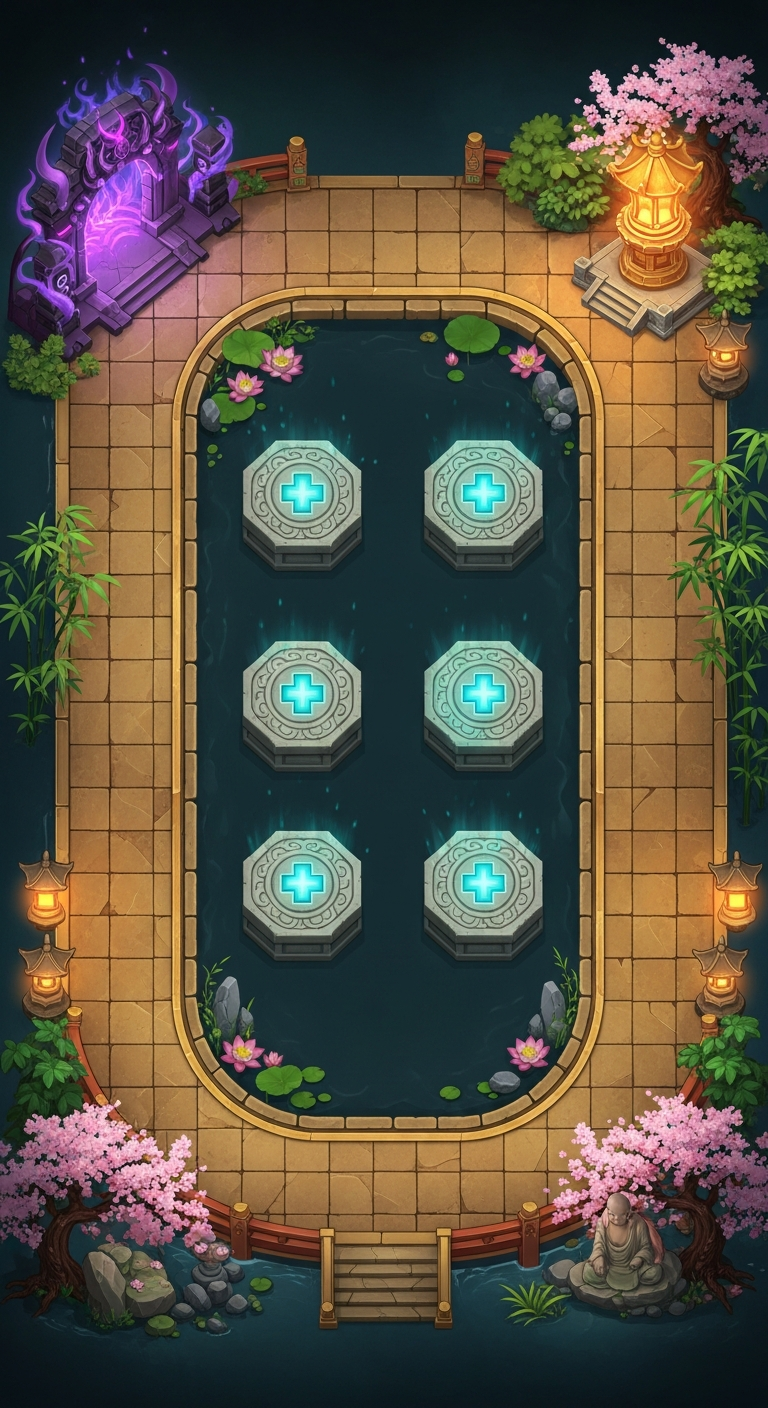
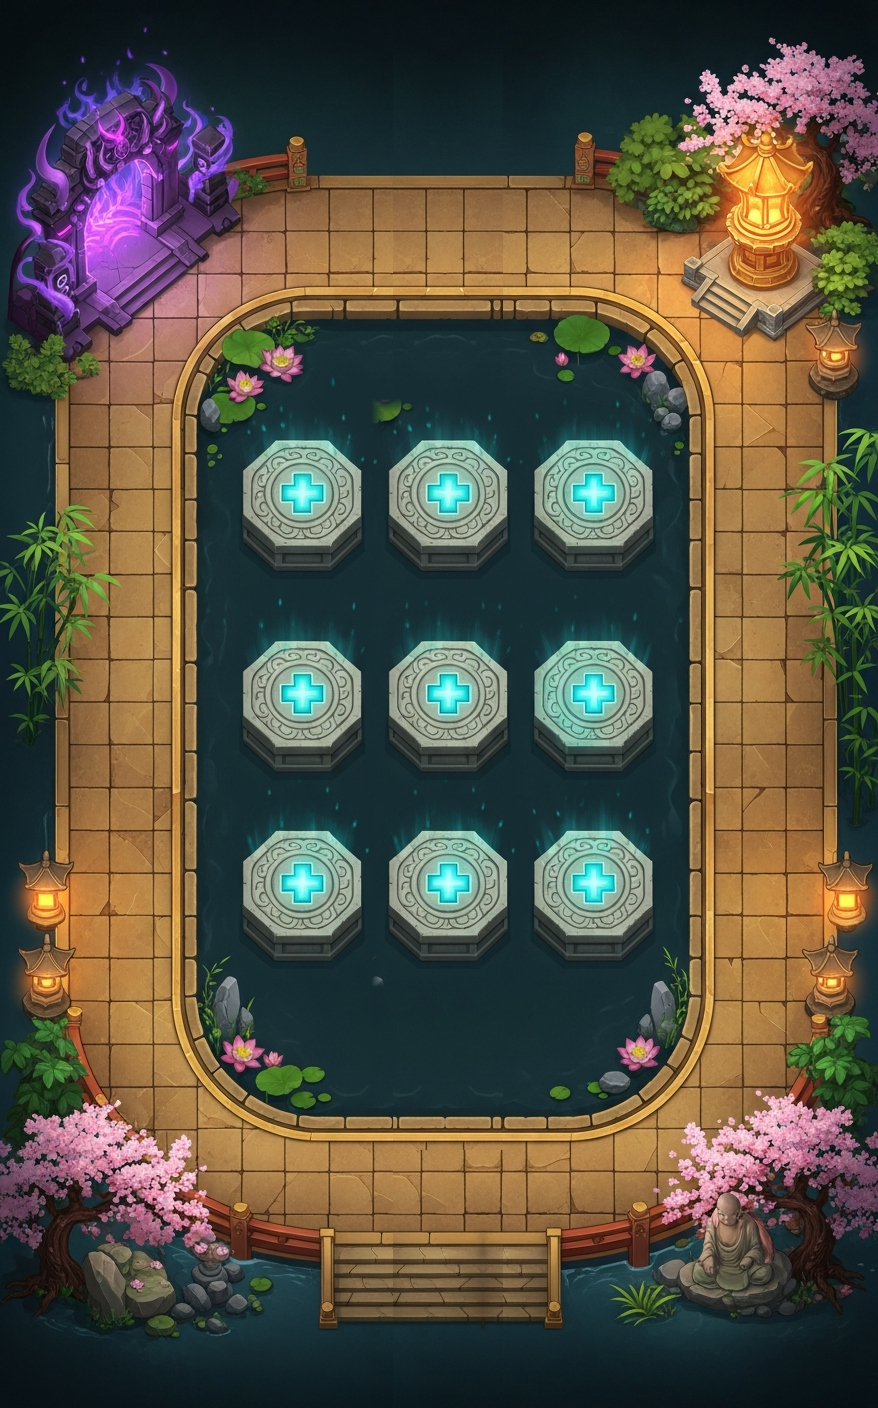
Expand the game board to accommodate three columns of pedestals
Update game map assets and configuration files to support a 3x3 grid of pedestals, expanding the playable area.

Replit-Commit-Author: Agent
Replit-Commit-Session-Id: 888092a9-07bb-434c-a266-2e5eb90ffa4c
Replit-Commit-Checkpoint-Type: full_checkpoint
Replit-Commit-Event-Id: bd8d1aba-7114-4f77-8098-6533ab500651
Replit-Commit-Screenshot-Url: https://storage.googleapis.com/screenshot-production-us-central1/1a88ce60-54d7-432b-a038-dd5cf757c637/888092a9-07bb-434c-a266-2e5eb90ffa4c/tU69pJJ
Replit-Helium-Checkpoint-Created: true

diff --git a/frontend/app/ward-defense-v2.tsx b/frontend/app/ward-defense-v2.tsx
@@ -2,13 +2,13 @@
  * Ward Defense V2 — Lotus Healing Sanctum
  *
  * INTERACTIVE MAP — the illustrated reference asset IS the battlefield.
- * Background: assets/ward-defense/lotus-healing-ward-map-portrait.png (square
- * 1:1, 1024×1024 — Disease Gate top-left, Vital Lantern top-right, nine glowing
- * pedestals in a 3×3 grid, perimeter stone walkway loop).  The board is sized
+ * Background: assets/ward-defense/lotus-healing-ward-map-portrait.png (portrait
+ * 878×1408 — Disease Gate top-left, Vital Lantern top-right, nine cross
+ * pedestals in a 3×3 grid, oval stone walkway loop).  The board is sized
  * to the image ratio exactly; overlay coordinates are fractions of that size.
  *
  * Layer order (zIndex):
- *   0  <ExpoImage IMG_MAP>  — square battle map (fills the fitted board)
+ *   0  <ExpoImage IMG_MAP>  — portrait battle map (fills the fitted board)
  *   6  StonePad × 9         — fully invisible tap targets (gold star on merge only)
  *  22  GateBadge            — spawn-queue count over the drawn gate
  *  10  HeroOnPad            — deployed hero sprites (centered on platforms)
@@ -28,30 +28,30 @@ import { Image as ExpoImage } from "expo-image";
    image ratio exactly so coordinates stay valid regardless of screen size.
    MUST stay identical to ward-defense.tsx.                              */
 export const PATH_WPS: [number, number][] = [
-  [0.14, 0.13],  /*  0  Disease Gate spawn        */
-  [0.14, 0.26],  /*  1  left lane upper           */
-  [0.13, 0.40],  /*  2  left lane                 */
-  [0.13, 0.54],  /*  3  left lane                 */
-  [0.15, 0.68],  /*  4  left lane lower           */
-  [0.20, 0.78],  /*  5  bottom-left curve         */
-  [0.34, 0.83],  /*  6  bottom lane left          */
-  [0.50, 0.84],  /*  7  bottom lane center        */
-  [0.66, 0.83],  /*  8  bottom lane right         */
-  [0.80, 0.78],  /*  9  bottom-right curve        */
-  [0.86, 0.68],  /* 10  right lane lower          */
-  [0.87, 0.54],  /* 11  right lane                */
-  [0.87, 0.40],  /* 12  right lane                */
-  [0.85, 0.26],  /* 13  right lane upper          */
-  [0.80, 0.13],  /* 14  Vital Lantern exit        */
+  [0.122, 0.13], /*  0  Disease Gate spawn        */
+  [0.122, 0.26], /*  1  left lane upper           */
+  [0.114, 0.40], /*  2  left lane                 */
+  [0.114, 0.54], /*  3  left lane                 */
+  [0.131, 0.68], /*  4  left lane lower           */
+  [0.175, 0.78], /*  5  bottom-left curve         */
+  [0.297, 0.83], /*  6  bottom lane left          */
+  [0.510, 0.84], /*  7  bottom lane center        */
+  [0.703, 0.83], /*  8  bottom lane right         */
+  [0.825, 0.78], /*  9  bottom-right curve        */
+  [0.877, 0.68], /* 10  right lane lower          */
+  [0.886, 0.54], /* 11  right lane                */
+  [0.886, 0.40], /* 12  right lane                */
+  [0.869, 0.26], /* 13  right lane upper          */
+  [0.825, 0.13], /* 14  Vital Lantern exit        */
 ];
 
-/* Six deploy pads — aligned onto the six cross pedestals drawn in the
-   portrait map (2 cols × 3 rows, centered inside the U-shaped walkway loop).
+/* Nine deploy pads — aligned onto the nine cross pedestals drawn in the
+   widened portrait map (3 cols × 3 rows, inside the walkway loop).
    MUST stay identical to ward-defense.tsx.                              */
 export const DEPLOY_TILES: [number, number][] = [
-  [0.394, 0.350], [0.629, 0.350],
-  [0.394, 0.493], [0.629, 0.493],
-  [0.394, 0.626], [0.629, 0.626],
+  [0.345, 0.350], [0.510, 0.350], [0.675, 0.350],
+  [0.345, 0.493], [0.510, 0.493], [0.675, 0.493],
+  [0.345, 0.626], [0.510, 0.626], [0.675, 0.626],
 ];
 
 /* ─── Assets ────────────────────────────────────────────────────────────── */
@@ -344,15 +344,15 @@ export function WardBoardV2({
   bobY,
   spawnQueueLen, mergeTileSet, onTilePress, unitColors,
 }: WardBoardV2Props) {
-  /* Measure the AVAILABLE area (outer container) and fit the whole 768×1408
+  /* Measure the AVAILABLE area (outer container) and fit the whole 878×1408
      portrait map inside it, preserving aspect. This guarantees the entry
      (Disease Gate) and exit (Vital Lantern) at the top of the map are NEVER
      cropped, while keeping overlays perfectly aligned
      (board size == image ratio → contentFit exact). */
   const availW = aw > 20 ? aw : 360;
   const availH = ah > 20 ? ah : 480;
-  const scale  = Math.min(availW / 768, availH / 1408);
-  const W = 768 * scale;
+  const scale  = Math.min(availW / 878, availH / 1408);
+  const W = 878 * scale;
   const H = 1408 * scale;
 
   return (
@@ -378,7 +378,7 @@ export function WardBoardV2({
       }}
     >
       {/* L0: Portrait battle map, sized to fit fully inside the available area.
-          Board size matches the image's 768×1408 ratio exactly, so contentFit
+          Board size matches the image's 878×1408 ratio exactly, so contentFit
           shows the WHOLE map (gate + lantern included) with zero crop, and
           overlay fractions (PATH_WPS / DEPLOY_TILES) sit EXACTLY on features. */}
       <ExpoImage
@@ -388,7 +388,7 @@ export function WardBoardV2({
         cachePolicy="memory-disk"
       />
 
-      {/* L2: Six invisible tap targets aligned onto the drawn platforms */}
+      {/* L2: Nine invisible tap targets aligned onto the drawn pedestals */}
       {W > 20 && DEPLOY_TILES.map((_, i) => (
         <StonePad
           key={i} aw={W} ah={H} tileIdx={i}

diff --git a/frontend/app/ward-defense.tsx b/frontend/app/ward-defense.tsx
@@ -43,29 +43,29 @@ const TILE_SIZE        = 46;   /* deployment tile size in px */
 /* Enemy route — traces the illustrated stone walkway in the reference map.
    MUST stay identical to ward-defense-v2.tsx.                              */
 const PATH_WPS: [number, number][] = [
-  [0.14, 0.13],  /*  0  Disease Gate spawn        */
-  [0.14, 0.26],  /*  1  left lane upper           */
-  [0.13, 0.40],  /*  2  left lane                 */
-  [0.13, 0.54],  /*  3  left lane                 */
-  [0.15, 0.68],  /*  4  left lane lower           */
-  [0.20, 0.78],  /*  5  bottom-left curve         */
-  [0.34, 0.83],  /*  6  bottom lane left          */
-  [0.50, 0.84],  /*  7  bottom lane center        */
-  [0.66, 0.83],  /*  8  bottom lane right         */
-  [0.80, 0.78],  /*  9  bottom-right curve        */
-  [0.86, 0.68],  /* 10  right lane lower          */
-  [0.87, 0.54],  /* 11  right lane                */
-  [0.87, 0.40],  /* 12  right lane                */
-  [0.85, 0.26],  /* 13  right lane upper          */
-  [0.80, 0.13],  /* 14  Vital Lantern exit        */
+  [0.122, 0.13], /*  0  Disease Gate spawn        */
+  [0.122, 0.26], /*  1  left lane upper           */
+  [0.114, 0.40], /*  2  left lane                 */
+  [0.114, 0.54], /*  3  left lane                 */
+  [0.131, 0.68], /*  4  left lane lower           */
+  [0.175, 0.78], /*  5  bottom-left curve         */
+  [0.297, 0.83], /*  6  bottom lane left          */
+  [0.510, 0.84], /*  7  bottom lane center        */
+  [0.703, 0.83], /*  8  bottom lane right         */
+  [0.825, 0.78], /*  9  bottom-right curve        */
+  [0.877, 0.68], /* 10  right lane lower          */
+  [0.886, 0.54], /* 11  right lane                */
+  [0.886, 0.40], /* 12  right lane                */
+  [0.869, 0.26], /* 13  right lane upper          */
+  [0.825, 0.13], /* 14  Vital Lantern exit        */
 ];
 const N_SEGS = PATH_WPS.length - 1;
 
-/* ── Six deploy pads — aligned onto the drawn cross pedestals (2 cols × 3 rows) ── */
+/* ── Nine deploy pads — aligned onto the drawn cross pedestals (3 cols × 3 rows) ── */
 const DEPLOY_TILES: [number, number][] = [
-  [0.394, 0.350], [0.629, 0.350],
-  [0.394, 0.493], [0.629, 0.493],
-  [0.394, 0.626], [0.629, 0.626],
+  [0.345, 0.350], [0.510, 0.350], [0.675, 0.350],
+  [0.345, 0.493], [0.510, 0.493], [0.675, 0.493],
+  [0.345, 0.626], [0.510, 0.626], [0.675, 0.626],
 ];
 
 /* ═══════════════════════════════════════════════════════════════════
@@ -281,9 +281,7 @@ function freshState(): GS {
   return {
     phase: "lobby", wave: 0,
     stability: MAX_STABILITY, ap: INIT_AP, apTimer: AP_REGEN_TICKS,
-    /* DEV SEED — remove: units on all 6 pads for alignment check */
-    deployedUnits: [0,1,2,3,4,5].map(i => ({ uid: `dev${i}`, typeId: ["ward_scout","mist_caster","o2_healer"][i%3], tileIndex: i, cooldown: 0, castFlash: 0, level: 1, mergeFlash: 0 })) as any,
-    enemies: [], projectiles: [],
+    deployedUnits: [], enemies: [], projectiles: [],
     spawnQueue: [], spawnTimer: 0, wavePauseTicks: 0, feedbacks: [],
     score: 0, tickCount: 0, uidSeed: 0,
     careChain: 0, peakCareChain: 0, priorityActions: 0,
@@ -2416,7 +2414,6 @@ export default function WardDefense() {
 
   /* ── Lobby ── */
   if (gs.phase === "lobby") {
-    startGame(); return null; /* DEV BYPASS — remove */
     return <LobbyScreen onStart={startGame} onBack={() => router.back()} />;
   }
 

diff --git a/.agents/memory/ward-defense-board-layout.md b/.agents/memory/ward-defense-board-layout.md
@@ -10,9 +10,9 @@ asset is rendered as the literal battle-map background:
 Gameplay elements (enemy lane, deploy pads, sprites) are transparent overlays
 whose fractional coordinates map onto features drawn INSIDE the image.
 **Why:** user explicitly rejected any CSS/RN-drawn scene. The Disease Gate,
-Vital Lantern, perimeter walkway loop, and 9 glowing pedestals (3×3 grid) all
-live in the image. (Filename still says "portrait" but the art is now square —
-kept unchanged so every `require()` stays valid.)
+Vital Lantern, oval walkway loop, and 9 cross pedestals (3×3 grid) all
+live in the image (Buddhist-garden portrait design, now 878×1408 after a
+surgical widening — see "Widening the map art" below).
 - Use `expo-image` (ExpoImage), NOT RN `Image`. Use `boxShadow`, not `shadow*`.
 - `frontend/public/` assets 404 on Expo web — `require()` is mandatory, not a URL.
 - The PNG is large: the first screenshot right after a restart shows a blank
@@ -23,13 +23,14 @@ For overlay fractions to sit EXACTLY on drawn features with zero crop, the board
 size MUST match the image's real pixel ratio. Current implementation measures the
 available area (onLayout) and fits the whole image inside it, preserving aspect:
 ```
-const scale = Math.min(availW / 1024, availH / 1024);
-const W = 1024 * scale, H = 1024 * scale;   // board == image ratio → no crop
+const scale = Math.min(availW / 878, availH / 1408);
+const W = 878 * scale, H = 1408 * scale;   // board == image ratio → no crop
 <ExpoImage source={IMG_MAP} style={StyleSheet.absoluteFillObject} contentFit=... />
 ```
-The current map is **square 1024×1024 (1:1)**. (It was previously portrait
-768×1408 = 6:11; the model refused to produce a clean 3×3 in a 3:4 canvas and
-kept adding a 4th row, so the art was regenerated at 1:1 to get a true 3×3.)
+The current map is **portrait 878×1408**. History: original portrait 768×1408
+(6 pedestals) → AI-regenerated square 1024×1024 3×3 (user REJECTED: wanted the
+original Buddhist-garden design kept) → original restored from git and widened
+programmatically to 878×1408 with a 3rd pedestal column (user approved).
 **Why:** if the board ratio != image ratio, `cover` crops and overlays drift off
 the drawn features — user reported "totally off". Matching board size to the
 image ratio guarantees alignment with zero crop.
@@ -46,10 +47,25 @@ EROSION first (keep only dense disc cores where a ~14px window is >72% glow),
 which drops the thin connector lines, THEN cluster + regularize to a clean grid.
 Always overlay the result back onto the art (draw dots on a PNG copy and view)
 before committing. Far more reliable than eyeballing a screenshot.
-Current values (fractions of board w/h, 3×3 grid): columns 0.377 / 0.500 /
-0.623; rows 0.380 / 0.490 / 0.600. DEPLOY_TILES is row-major (9 tiles). PATH_WPS
-traces the perimeter walkway loop (gate top-left → down left → across bottom
-~0.86 → up right → lantern top-right), 15 waypoints.
+Current values (fractions of 878×1408 board, 3×3 grid): columns 0.345 / 0.510 /
+0.675; rows 0.350 / 0.493 / 0.626. DEPLOY_TILES is row-major (9 tiles). PATH_WPS
+traces the oval walkway loop (gate top-left → down left → across bottom ~0.84 →
+up right → lantern top-right), 15 waypoints. Sprites "stand on" a pedestal when
+centered on its glowing TOP FACE (fy is top-face center; the dark hex base
+drawn below the sprite is correct art, not misalignment).
+
+## Widening the map art programmatically (approved technique)
+To fit more pedestal columns WITHOUT changing the drawn design (user demand:
+"only add on"), widen the canvas via a center-line insertion, not AI regen:
+insert a vertical band (110px) at the pond's center x, filling it by ping-pong
+tiling per-row "clean" source windows (plank/sky rows, water rows, dock-rung
+rows each get their own feature-free window so fences, pier, and walkway extend
+seamlessly), then clone an existing pedestal column patch (with glow, ~14px
+feathered alpha) into the inserted region. Update: fit divisors, DEPLOY_TILES
+(new width denominators), and PATH_WPS x-fractions (left of cut: px/newW;
+right of cut: (px+ins)/newW). Verify with a half-scale preview PNG + dev-seeded
+units on all pads. **Why:** AI image generation cannot edit-with-reference here
+and regenerating loses the approved design.
 
 ## Both files must stay in sync (drift hazard)
 PATH_WPS + DEPLOY_TILES are duplicated: exported consts in `ward-defense-v2.tsx`
@@ -65,12 +81,14 @@ flank it with two decorative "wing" images inside a flexDirection:"row"
 container (wings flex:1, height:H, contentFit:"cover", contentPosition anchored
 toward the seam). Wings collapse to 0 on narrow/portrait screens — no mobile
 regression — and overlay fractions/fit math stay untouched.
-**Wing texture recipe (programmatic, from the map's own art):** take the outer
-~88px pure-fog band (wider strips leak gate/pedestals/label text into the wing),
-ping-pong mirror-tile it outward from the seam (mirror ⇒ pixel-perfect seam
-continuity), then apply progressive box blur + darkening past the first tile —
-raw tiling shows obvious repeated "totem" blobs; blur turns them into natural
-mist. Files: assets/ward-defense/map-wing-left/right.png (528×1024).
+**Wing texture recipe (programmatic, from the map's own art):** measure the
+pure-fog edge band first (sample per-column saturation; ~48px on the portrait
+map — wider strips leak drawn features into the wing), ping-pong mirror-tile it
+outward from the seam (mirror ⇒ pixel-perfect seam continuity), then apply
+progressive box blur + darkening past the first tile — raw tiling shows obvious
+repeated "totem" blobs; blur turns them into natural mist. Regenerate wings
+whenever the map asset changes. Files:
+assets/ward-defense/map-wing-left/right.png (384×1408).
 
 ## Enemy locomotion + game-speed toggle
 Enemies walk OR float by type via an `ENEMY_LOCO` map: `EnemyOnPath` owns a